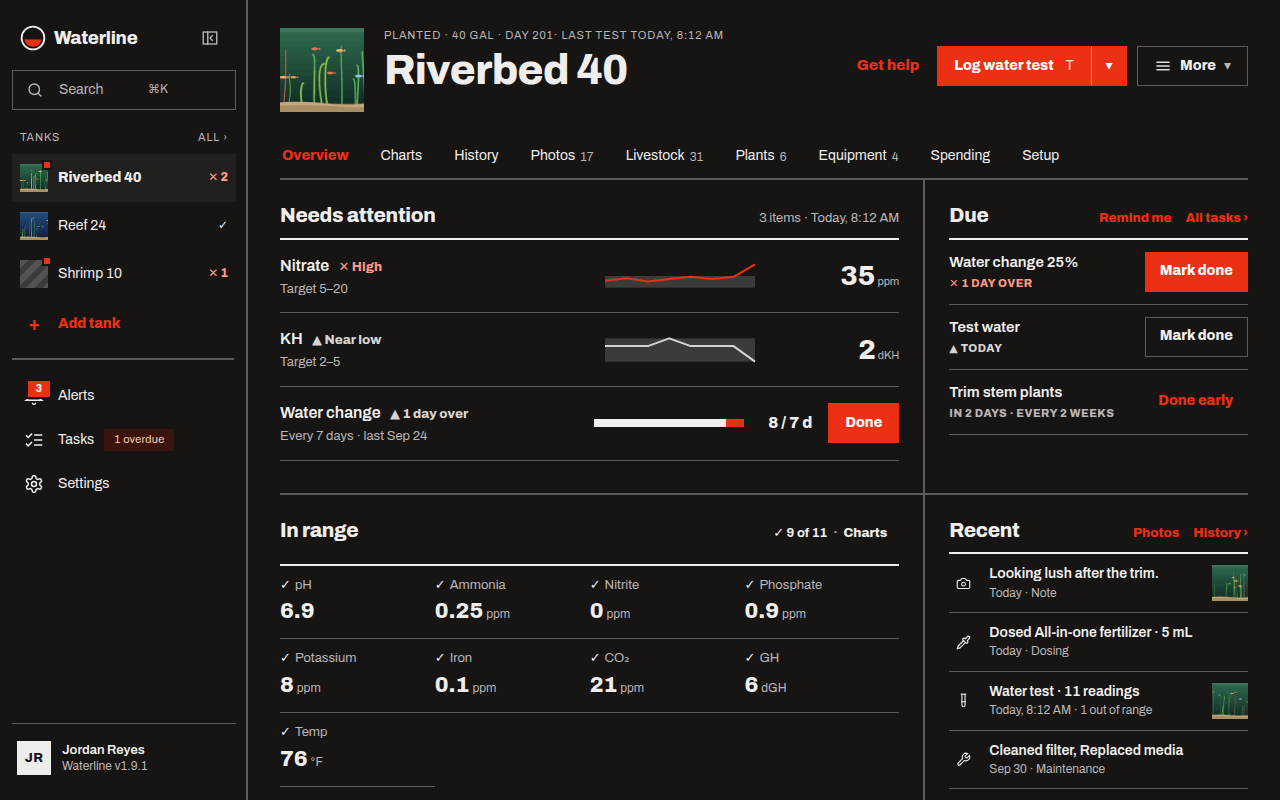
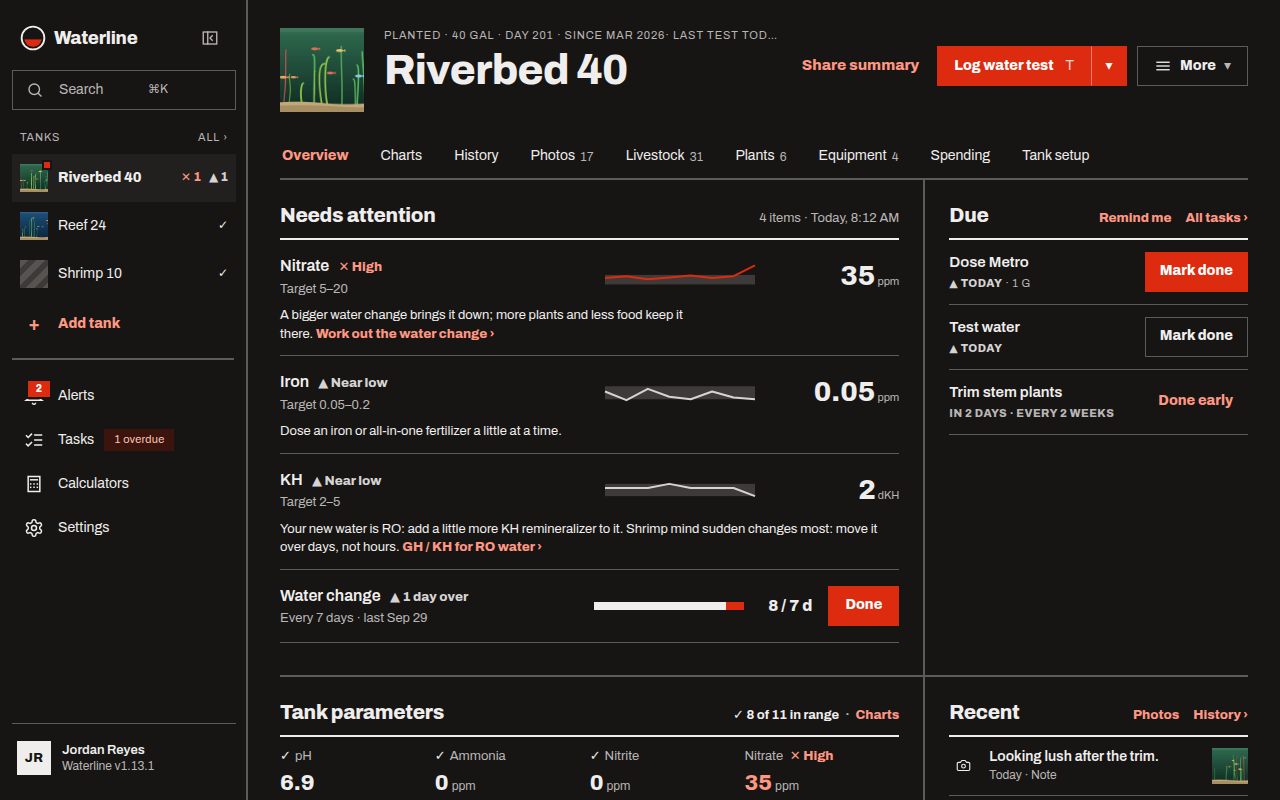
README: fresh screenshots, and a script to retake them
The README's screenshots still showed v1.9.1. They're retaken from the
demo account on 1.13.1, in both themes, by a new opt-in Playwright file:
SCREENSHOTS=1 npx playwright test e2e/readme-screenshots.test.ts
--project=desktop. The images' descriptions match what they now show.

Claude-Session: https://claude.ai/code/session_018AvHvuvwKTfMDopS5jc9dY

diff --git a/e2e/readme-screenshots.test.ts b/e2e/readme-screenshots.test.ts
@@ -1,0 +1,68 @@
+import { expect, test, type Browser } from '@playwright/test';
+
+// The README's screenshots (docs/screenshots), taken from the demo account
+// in both themes (opt-in): SCREENSHOTS=1 npx playwright test e2e/readme-screenshots.test.ts --project=desktop
+test.skip(!process.env.SCREENSHOTS, 'set SCREENSHOTS=1 to retake the README screenshots');
+test.setTimeout(180_000);
+
+const DIR = 'docs/screenshots';
+const DESKTOP = { width: 1280, height: 800 };
+const PHONE = { width: 390, height: 844 };
+const THEMES = ['light', 'dark'] as const;
+
+async function signedIn(browser: Browser, email: string, viewport: { width: number; height: number }, theme: (typeof THEMES)[number]) {
+	const phone = viewport.width < 600;
+	const ctx = await browser.newContext({ viewport, colorScheme: theme, isMobile: phone, hasTouch: phone, reducedMotion: 'reduce' });
+	const page = await ctx.newPage();
+	await page.goto('/signin');
+	await page.locator('html[data-ready="true"]').waitFor();
+	await page.getByPlaceholder('Email').fill(email);
+	await page.getByRole('button', { name: /Sign in with Google/ }).click();
+	await page.waitForURL((u) => !u.pathname.startsWith('/signin'));
+	return { ctx, page };
+}
+
+/** Load a page and let its fonts, photos and charts settle. */
+async function settle(page: import('@playwright/test').Page, url: string) {
+	await page.goto(url, { waitUntil: 'networkidle' });
+	await page.locator('html[data-ready="true"]').waitFor();
+	await page.evaluate(() => document.fonts.ready);
+	// the dashboard's What's new note after an update isn't part of the picture
+	const whatsNew = page.getByRole('button', { name: /Dismiss|Got it/ });
+	if (await whatsNew.count()) await whatsNew.first().click();
+	await page.waitForTimeout(400);
+}
+
+test('README screenshots', async ({ browser, request }, info) => {
+	test.skip(info.project.name !== 'desktop', 'taken once, at each size below');
+	const seeded = await (await request.post('/dev/seed')).json();
+	const tank = seeded.plantedTank as string;
+
+	for (const theme of THEMES) {
+		// the dashboard on a computer
+		{
+			const { ctx, page } = await signedIn(browser, seeded.email, DESKTOP, theme);
+			await settle(page, `/?tank=${tank}`);
+			await page.screenshot({ path: `${DIR}/desktop-dashboard-${theme}.png` });
+			await ctx.close();
+		}
+		// on a phone: the dashboard, logging a water test, and nitrate on Charts
+		{
+			const { ctx, page } = await signedIn(browser, seeded.email, PHONE, theme);
+			await settle(page, `/?tank=${tank}`);
+			await page.screenshot({ path: `${DIR}/phone-dashboard-${theme}.png` });
+
+			await settle(page, `/entries/test/new?tank=${tank}`);
+			await page.screenshot({ path: `${DIR}/phone-log-test-${theme}.png` });
+
+			await settle(page, `/charts?tank=${tank}`);
+			const nitrate = page.locator('a.chip', { hasText: /^Nitrate/ });
+			const url = new URL((await nitrate.getAttribute('href'))!, page.url());
+			url.searchParams.set('r', '1m');
+			await settle(page, url.pathname + url.search);
+			await expect(page.getByRole('slider', { name: /^Nitrate/ })).toBeVisible();
+			await page.screenshot({ path: `${DIR}/phone-charts-${theme}.png` });
+			await ctx.close();
+		}
+	}
+});

diff --git a/README.md b/README.md
@@ -17,13 +17,13 @@
 
 <picture>
   <source media="(prefers-color-scheme: dark)" srcset="docs/screenshots/desktop-dashboard-dark.png">
-  <img src="docs/screenshots/desktop-dashboard-light.png" alt="The dashboard on a computer: the tank's photo and name, what needs attention with each reading's recent line, the readings in range, tasks due and recent activity">
+  <img src="docs/screenshots/desktop-dashboard-light.png" alt="The dashboard on a computer: the tank's photo and name, what needs attention with each reading's recent line and what to do about it, tasks due, the tank's parameters and recent activity">
 </picture>
 
 <p align="center">
   <picture>
     <source media="(prefers-color-scheme: dark)" srcset="docs/screenshots/phone-dashboard-dark.png">
-    <img src="docs/screenshots/phone-dashboard-light.png" alt="The dashboard on a phone: two readings out of range, one near its limit and the overdue water change under Needs attention, then the readings in range" width="260">
+    <img src="docs/screenshots/phone-dashboard-light.png" alt="The dashboard on a phone: nitrate out of range, iron and KH near their limits and the overdue water change under Needs attention, each with what to do next, then what's due" width="260">
   </picture>
   <picture>
     <source media="(prefers-color-scheme: dark)" srcset="docs/screenshots/phone-log-test-dark.png">
@@ -31,7 +31,7 @@
   </picture>
   <picture>
     <source media="(prefers-color-scheme: dark)" srcset="docs/screenshots/phone-charts-dark.png">
-    <img src="docs/screenshots/phone-charts-light.png" alt="Charts: nitrate over a month against its target band, with water changes marked" width="260">
+    <img src="docs/screenshots/phone-charts-light.png" alt="Charts: nitrate over 30 days against its target band, with water changes marked and the average, range and change below" width="260">
   </picture>
 </p>
 
@@ -188,7 +188,7 @@ npm run test:perf  # performance budgets for the main pages (seeds the demo acco
 node scripts/bundle-size.mjs  # after a build: the gzipped JavaScript against its budget
 ```
 
-The first time, install the Playwright browser with `npx playwright install chromium` (and `webkit firefox` for the other engines) (or point the tests at a Chromium already on the machine with `PW_CHROMIUM=/path/to/chrome`). The core flow (`e2e/core-flow.test.ts`) is sign in → setup → create tank → log test → dashboard → complete task. `AUDIT=1 npx playwright test e2e/audit.test.ts --project=desktop` also checks every screen, at phone and desktop sizes in both themes, for accessibility problems, small tap targets and overflow, and writes what it finds to `test-results/audit.json`.
+The first time, install the Playwright browser with `npx playwright install chromium` (and `webkit firefox` for the other engines) (or point the tests at a Chromium already on the machine with `PW_CHROMIUM=/path/to/chrome`). The core flow (`e2e/core-flow.test.ts`) is sign in → setup → create tank → log test → dashboard → complete task. `SCREENSHOTS=1 npx playwright test e2e/readme-screenshots.test.ts --project=desktop` retakes the screenshots at the top of this README from the demo account, in both themes. `AUDIT=1 npx playwright test e2e/audit.test.ts --project=desktop` also checks every screen, at phone and desktop sizes in both themes, for accessibility problems, small tap targets and overflow, and writes what it finds to `test-results/audit.json`.
 
 **Accessibility.** `e2e/a11y.test.ts` runs axe (WCAG 2.2 AA) on every push, over the screens people use most: sign-in and setup, the dashboard, logging a test or a note, History, Charts, tank settings and sharing, Photos, Tasks, Settings and Server settings, and the public tank page, with Quick add, Alerts and the keyboard shortcuts open, on a phone and a desktop, in light and dark. A serious or critical finding fails the build, naming the screen, the rule and the element. `A11Y_SURVEY=1 npx playwright test e2e/a11y.test.ts` lists every finding instead. An exception goes in the test's `EXCEPT` list, for one rule on one element, with the reason.
 
